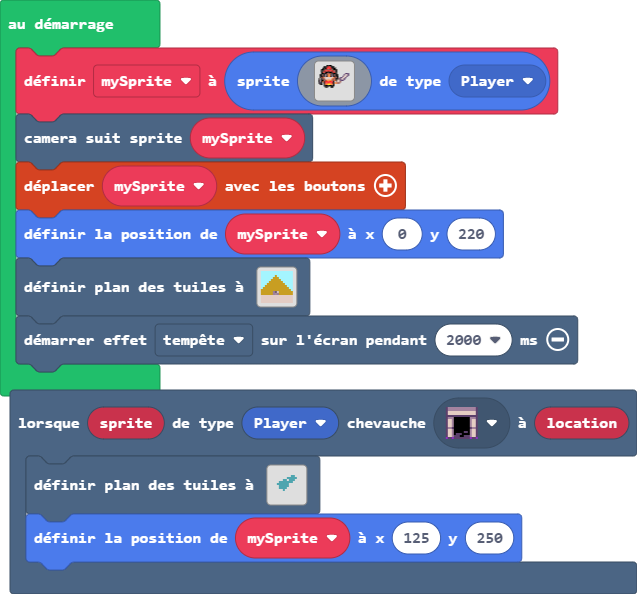
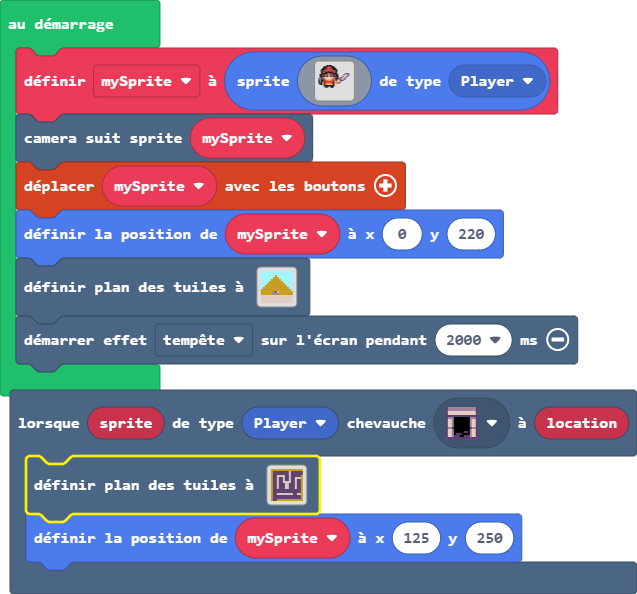
Mise à jour main.blocks, main.ts, tilemap.g.jres, tilemap.g.ts

Changed region(s): [[0.0298, 0.7576, 0.5071, 0.8788]]

diff --git a/tilemap.g.ts b/tilemap.g.ts
@@ -97,25 +97,6 @@ namespace myTiles {
 2 . . . . . . . . . . . . . . 2 
 2 . 2 2 2 2 2 2 2 2 2 2 2 2 2 2 
 `, [myTiles.transparency16,myTiles.tile4,sprites.dungeon.darkGroundCenter,sprites.dungeon.floorLight4], TileScale.Sixteen);
-            case "labyrinthe1":
-            case "labyrinthe1":return tiles.createTilemap(hex`1000100001010101010101010101010101010101010202020202020202030202020202020102020202020202020302020202020201020203030303020203020202020201010202030202030202030202030303010102020302020302020302020302020101020203020203030303020203020201010202030202020303020202030202010102020302020203030202020302020101020203020202030302020203020201010202020202020202020202020202010102020202020202020202020202020101020203030303030303030202030301010202020202020202020202020202010102020202020202020202020202020101020201010101010101010101010101`, img`
-2 2 2 2 2 2 2 2 2 2 2 2 2 2 2 2 
-2 . . . . . . . . . . . . . . . 
-2 . . . . . . . . . . . . . . . 
-2 . . . . . . . . . . . . . . 2 
-2 . . . . . . . . . . . . . . 2 
-2 . . . . . . . . . . . . . . 2 
-2 . . . . . . . . . . . . . . 2 
-2 . . . . . . . . . . . . . . 2 
-2 . . . . . . . . . . . . . . 2 
-2 . . . . . . . . . . . . . . 2 
-2 . . . . . . . . . . . . . . 2 
-2 . . . . . . . . . . . . . . 2 
-2 . . . . . . . . . . . . . . 2 
-2 . . . . . . . . . . . . . . 2 
-2 . . . . . . . . . . . . . . 2 
-2 . . 2 2 2 2 2 2 2 2 2 2 2 2 2 
-`, [myTiles.transparency16,myTiles.tile4,sprites.dungeon.darkGroundCenter,sprites.dungeon.floorLight4], TileScale.Sixteen);
             case "niveau2":
             case "niveau2":return tiles.createTilemap(hex`1000100000000000000000000000000000000000000000000000000000000000000000000000000000000000000000000000000000000000000000000000000000000000000000000000000000000000000000000000000000000000000000000000000000000000000000000000000000000000000000000000000000000000000000000000000000000000000000000000000000000000000000000000000000000000000000000000000000000000000000000000000000000000000000000000000000000000000000000000000000000000000000000000000000000000000000000000000000000000000000000000000000000000000000000000000000000000`, img`
 . . . . . . . . . . . . . . . . 
@@ -135,6 +116,25 @@ namespace myTiles {
 . . . . . . . . . . . . . . . . 
 . . . . . . . . . . . . . . . . 
 `, [myTiles.transparency16], TileScale.Sixteen);
+            case "labyrinthe1":
+            case "labyrinthe1":return tiles.createTilemap(hex`1000100001010101010101010101010101010101010202020202020202030202020202020102020202020202020302020202020201020203030303020203020202020201010202030202030202030202030303010102020302020302020302020302020101020203020203030303020203020201010202030202020303020202030202010102020302020203030202020302020101020203020202030302020203020201010202020202020202020202020202010102020202020202020202020202020101020203030303030303030202030301010202020202020202020202020202010102020202020202020202020202020101020201010101010101010101010101`, img`
+2 2 2 2 2 2 2 2 2 2 2 2 2 2 2 2 
+2 . . . . . . . . 2 . . . . . . 
+2 . . . . . . . . 2 . . . . . . 
+2 . . 2 2 2 2 . . 2 . . . . . 2 
+2 . . 2 . . 2 . . 2 . . 2 2 2 2 
+2 . . 2 . . 2 . . 2 . . 2 . . 2 
+2 . . 2 . . 2 2 2 2 . . 2 . . 2 
+2 . . 2 . . . 2 2 . . . 2 . . 2 
+2 . . 2 . . . 2 2 . . . 2 . . 2 
+2 . . 2 . . . 2 2 . . . 2 . . 2 
+2 . . . . . . . . . . . . . . 2 
+2 . . . . . . . . . . . . . . 2 
+2 . . 2 2 2 2 2 2 2 2 . . 2 2 2 
+2 . . . . . . . . . . . . . . 2 
+2 . . . . . . . . . . . . . . 2 
+2 . . 2 2 2 2 2 2 2 2 2 2 2 2 2 
+`, [myTiles.transparency16,myTiles.tile4,sprites.dungeon.darkGroundCenter,sprites.dungeon.floorLight4], TileScale.Sixteen);
         }
         return null;
     })

diff --git a/main.ts b/main.ts
@@ -1,5 +1,5 @@
 scene.onOverlapTile(SpriteKind.Player, sprites.dungeon.doorOpenNorth, function (sprite, location) {
-    tiles.setTilemap(tilemap`level2`)
+    tiles.setTilemap(tilemap`labyrinthe1`)
     mySprite.setPosition(125, 250)
 })
 let mySprite: Sprite = null
